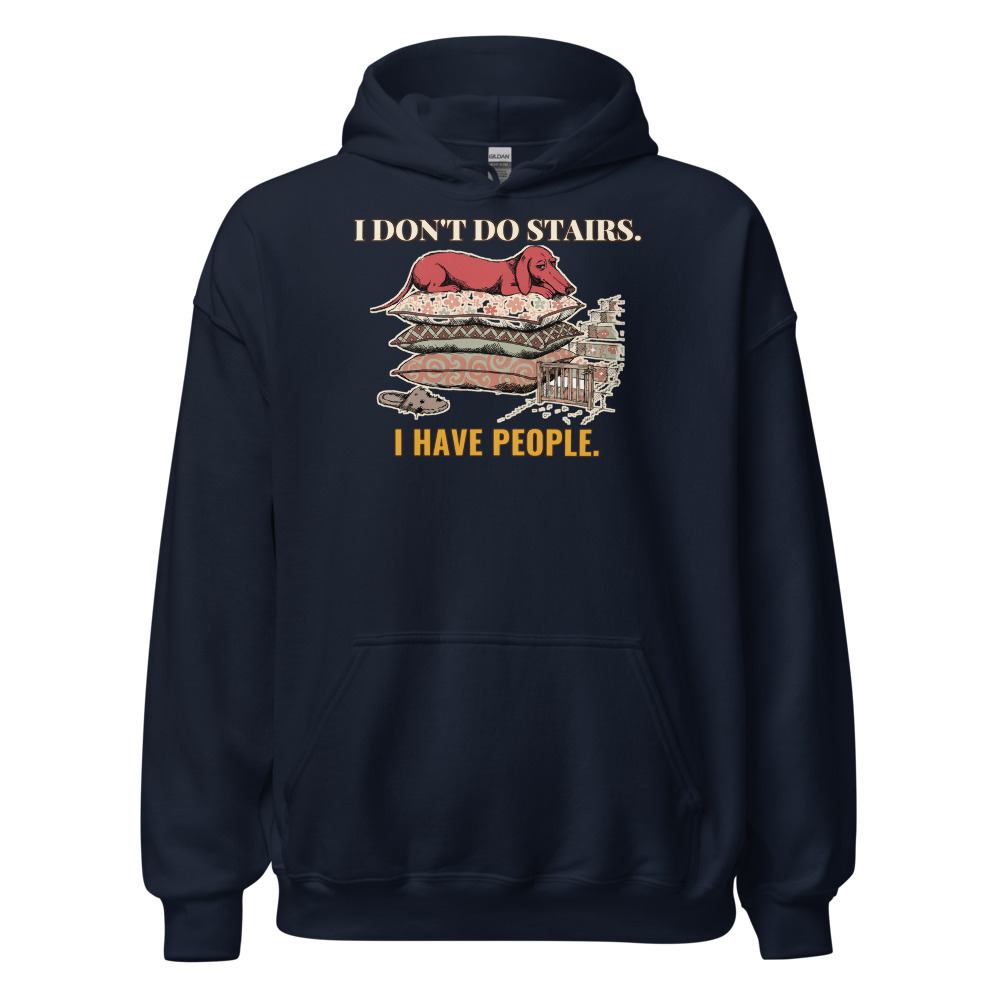
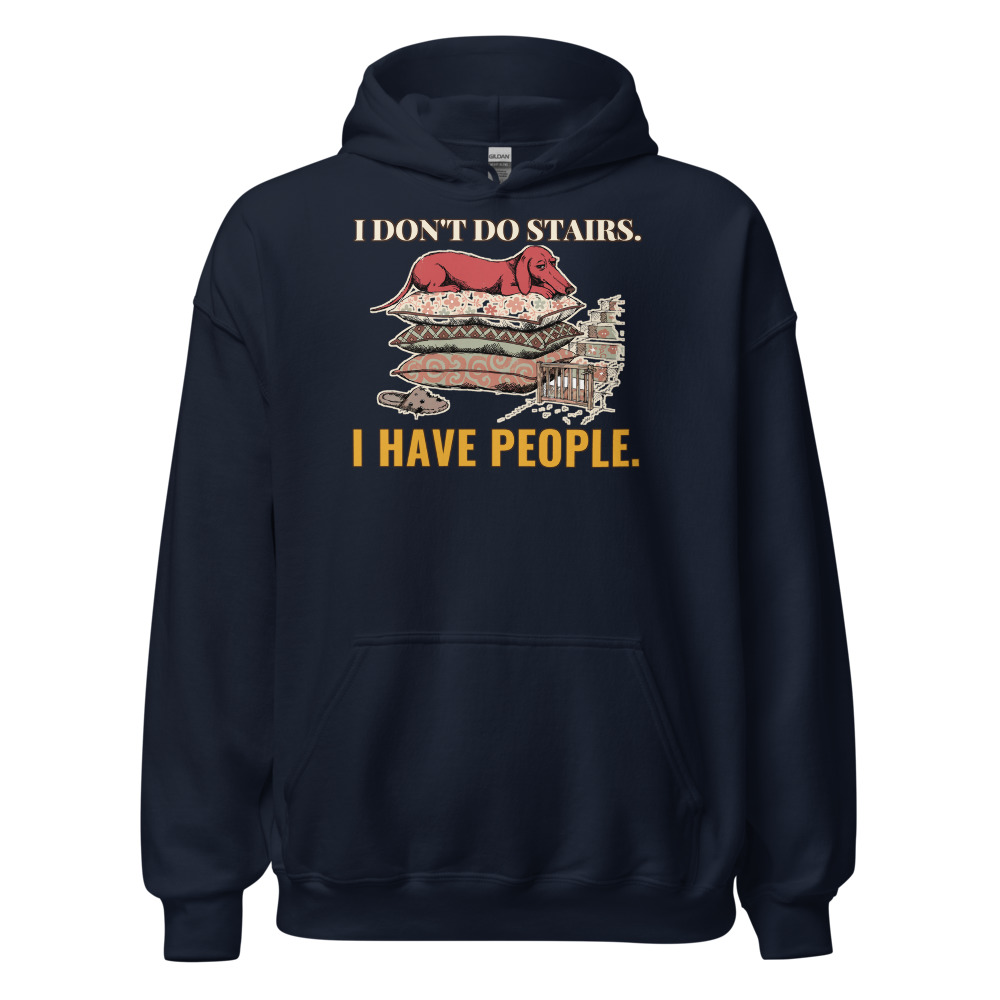
[C] review 621 (redo)
Claude-Session: https://claude.ai/code/session_01CCHcDj8LcJJ8qUPtKE3cvn

Changed region(s): [[0.341, 0.403, 0.651, 0.465]]

diff --git a/designs/c621/make.py b/designs/c621/make.py
@@ -23,14 +23,14 @@ def build(tag,src,c1,k1,c2,k2,bgc):
     im=Image.open('docs/print-files/'+src).convert('RGBA'); W=im.width
     art=im.crop((0,277,W,2262))
     h1=line("I DON'T DO STAIRS.",'PlayfairDisplay[wght].ttf',0.97,W,c1,k1,kw=29,var=[900])
-    h2=line("I HAVE PEOPLE.",'Oswald[wght].ttf',0.70,W,c2,k2,kw=25,track=14,var=[700])
-    print(tag,'h1',h1.size,'h2',h2.size,'ratio h2/h1',h2.height/h1.height)
+    h2=line("I HAVE PEOPLE.",'Oswald[wght].ttf',0.99,W,c2,k2,kw=25,track=14,var=[700])
+    print(tag,'headline px',h1.width,'punch px',h2.width)
     g=36; H=h1.height+g+art.height+g+h2.height
     out=Image.new('RGBA',(W,H),(0,0,0,0))
     out.alpha_composite(h1,((W-h1.width)//2,0)); y=h1.height+g
     out.alpha_composite(art,(0,y)); y+=art.height+g
     out.alpha_composite(h2,((W-h2.width)//2,y))
-    out.save(f'docs/print-files/621-v2-stairs-{tag}.png'); print(out.size,H/W)
-    bg=Image.new('RGBA',out.size,bgc); bg.alpha_composite(out); bg.convert('RGB').resize((600,int(600*H/W))).save(f'designs/c621/prev_{tag}.png')
+    out.save(f'docs/print-files/621-v3-stairs-{tag}.png'); print(out.size,H/W)
+    bg=Image.new('RGBA',out.size,bgc); bg.alpha_composite(out); bg.convert('RGB').resize((600,int(600*H/W))).save(f'designs/c621/prev3_{tag}.png')
 build('sand','621-banned-from-stairs-dark-ink.png',BROWN,CREAM,RUST,CREAM,(214,196,160,255))
 build('navy','621-banned-from-stairs-light-ink.png',CREAM,BROWN,MUST,BROWN,(38,50,88,255))

diff --git a/docs/intake-log.md b/docs/intake-log.md
@@ -3,6 +3,7 @@ RUNNING lane E since 2026-10-20 06:47 UTC
 RUNNING lane C since 2026-10-20 06:30 UTC
 2026-10-20 06:43 UTC — [E] Builder run: redid #486 Women's Embroidered goose crewneck (line + type: NOT IGNORING YOU. / JUST AT A GOOD PART., same goose, new stitched lettering, navy thread, 12/12 synced). REVIEW. fal $0.
 2026-10-20 06:50 UTC — [E] Builder run: redid #559 Women's Bear crewneck (line + type: BEAR WITH ME. I'M RESTING., new belly-up sleeping bear art, Navy + Sand files, 12/12 synced, copy updated, plain product shot). REVIEW. fal $0.04.
+2026-10-20 06:51 UTC — [C] Builder run: redid #621 Unisex Dachshund hoodie round 2 (director note: punch widened, headline 3192 px / punch 3215 px, Sand file 1090214855 + Navy file 1090214929, FW 1650 TOP 0, 12/12 relinked, 2 fronts replaced in place). REVIEW. fal $0.
 RUNNING director since 2026-10-20 06:16 UTC
 2026-10-20 06:30 UTC — [E] Builder run: redid #466 Unisex Embroidered hoodie (line + type: REPLAYING / WHAT I SAID / IN 2014., new stitched lettering, Sand navy thread + Navy white thread, 12/12 synced). REVIEW. fal $0.
 2026-10-20 06:41 UTC — [B] Builder run: redid #380 round 2 (RULES: UNKNOWN. / SNACKS: PACKED., punch widened to headline width, ink widths 3598/3598 px, Sand + Sport Grey, 12/12 synced). REVIEW. fal $0.

diff --git a/docs/pipeline/621-dachshund-hoodie-banned-from-stairs.md b/docs/pipeline/621-dachshund-hoodie-banned-from-stairs.md
@@ -1,4 +1,4 @@
-status: BUILDING [C] 2026-10-20 06:42
+status: REVIEW
 shopify: gid://shopify/Product/15364929880368
 lane: C
 type: twin
@@ -33,3 +33,4 @@ kd: 26
 - 2026-10-20 06:40 UTC director: REDO from docs/review/621.jpg:
   1. R3.7.8 / builder card 7h: your log says I HAVE PEOPLE. is 70% of the headline's width; it must be at least as wide as I DON'T DO STAIRS. (taller is fine). Height does not make up for width.
   2. Keep the line, it's good. Re-link both files and remake the sheet.
+- 2026-10-20 06:51 UTC builder [C]: REDO round 2 per the director's 06:40 note (R3.7.8 / card 7h: punch narrower than headline). Line kept (I DON'T DO STAIRS. / I HAVE PEOPLE.). Measured ink widths: headline 3192 px / punch 3215 px (punch 101% of the headline; it is also taller, 447 vs 266 px). Punch Oswald Bold now set at 99% of the print width; no other change. Light-file (R5.3.8) unchanged: Sand file 1090214855 (headline dark brown, punch rust), Navy file 1090214929 (headline cream, punch mustard); docs/print-files/621-v3-stairs-sand.png / -navy.png; print 3289 x 2765, FW 1650 TOP 0, 12/12 relinked (verified on the API before REVIEW). 2 fronts replaced in place, read at phone size. Copy unchanged (still true). fal $0.
